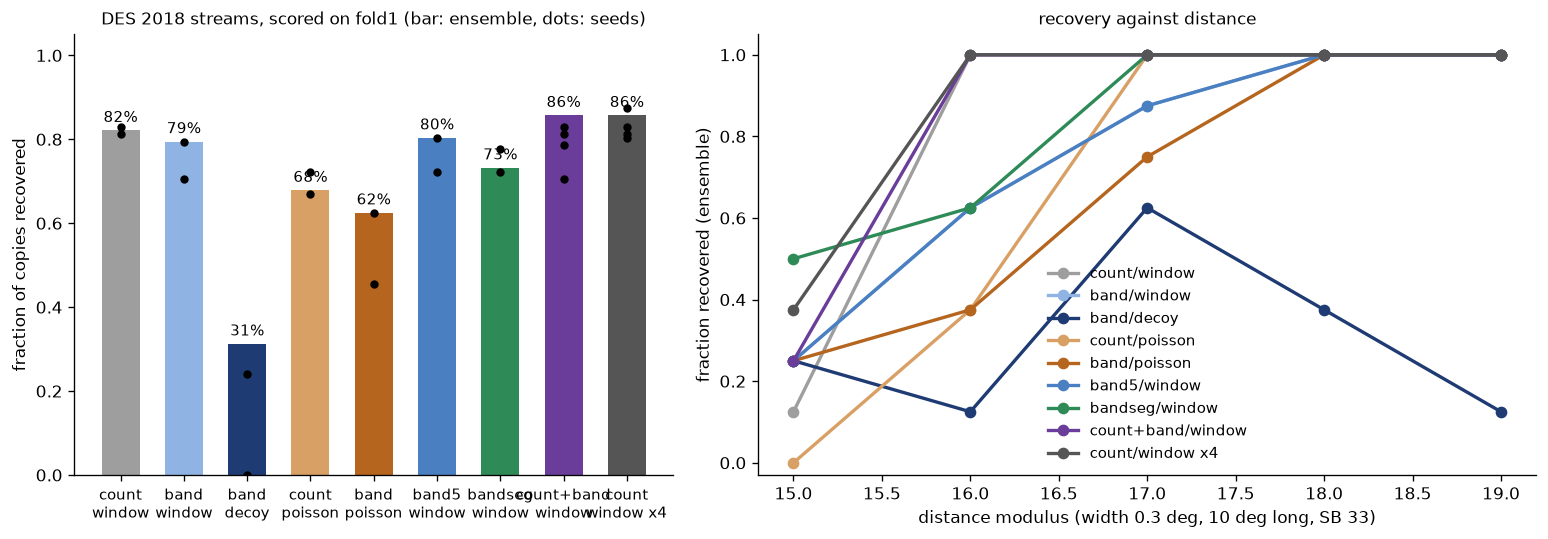
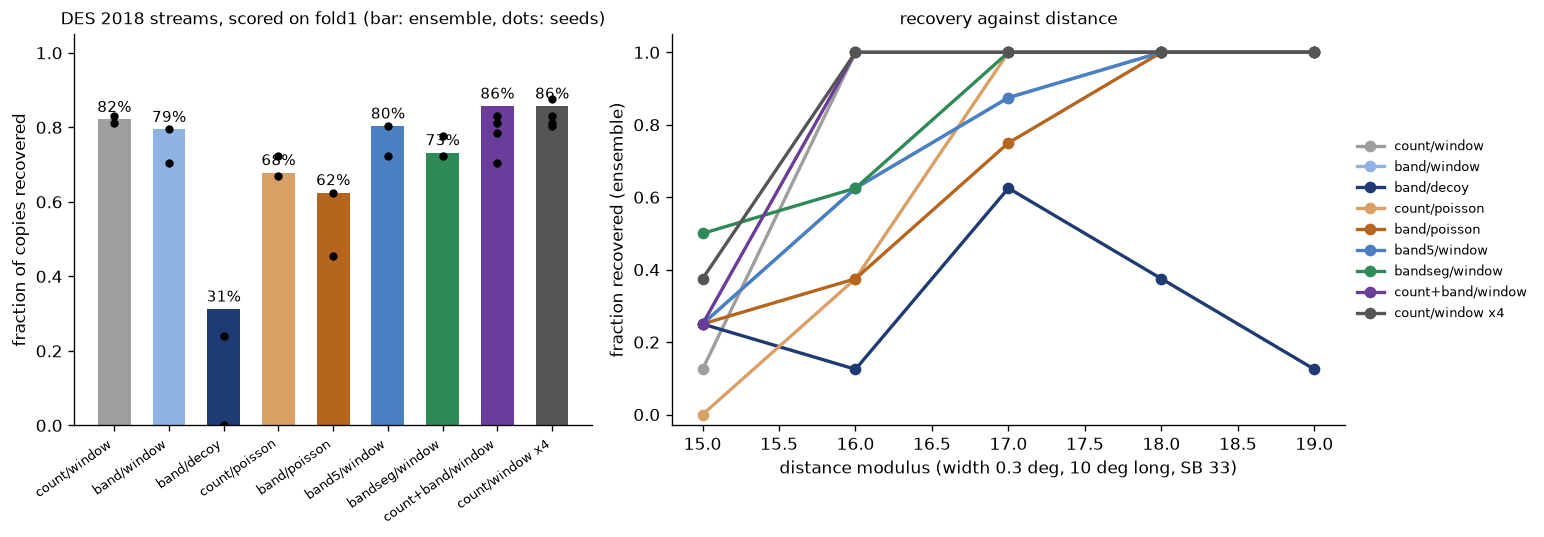
Real DES patches: legible recovery figures

diff --git a/scripts/experiments/real_des/patches.py b/scripts/experiments/real_des/patches.py
@@ -855,7 +855,7 @@ def figures(train_sky="A"):
         ax.plot([i] * len(seeds), seeds, "o", color="black", ms=4)
         ax.text(i, ensemble + 0.02, f"{ensemble:.0%}", ha="center", fontsize=9)
     ax.set_xticks(range(len(order)))
-    ax.set_xticklabels([c.replace("/", "\n") for c in order], fontsize=9)
+    ax.set_xticklabels(order, fontsize=8, rotation=35, ha="right")
     ax.set_ylim(0, 1.05)
     ax.set_ylabel("fraction of copies recovered")
     ax.set_title(
@@ -874,7 +874,7 @@ def figures(train_sky="A"):
     ax.set_xlabel("distance modulus (width 0.3 deg, 10 deg long, SB 33)")
     ax.set_ylabel("fraction recovered (ensemble)")
     ax.set_ylim(-0.03, 1.05)
-    ax.legend(frameon=False, fontsize=9)
+    ax.legend(frameon=False, fontsize=8, loc="center left", bbox_to_anchor=(1.0, 0.5))
     ax.set_title("recovery against distance", fontsize=10)
     ax.spines[["top", "right"]].set_visible(False)
     fig.tight_layout()
@@ -902,7 +902,7 @@ def figures(train_sky="A"):
         axes[1].set_ylabel("% of those in blobs shorter than 2 deg")
         for ax in axes:
             ax.set_xticks(range(len(order)))
-            ax.set_xticklabels([c.replace("/", "\n") for c in order], fontsize=9)
+            ax.set_xticklabels(order, fontsize=8, rotation=35, ha="right")
             ax.spines[["top", "right"]].set_visible(False)
         axes[0].set_title("how often the ensemble fires on empty sky", fontsize=10)
         axes[1].set_title("how blob-like those answers are", fontsize=10)
